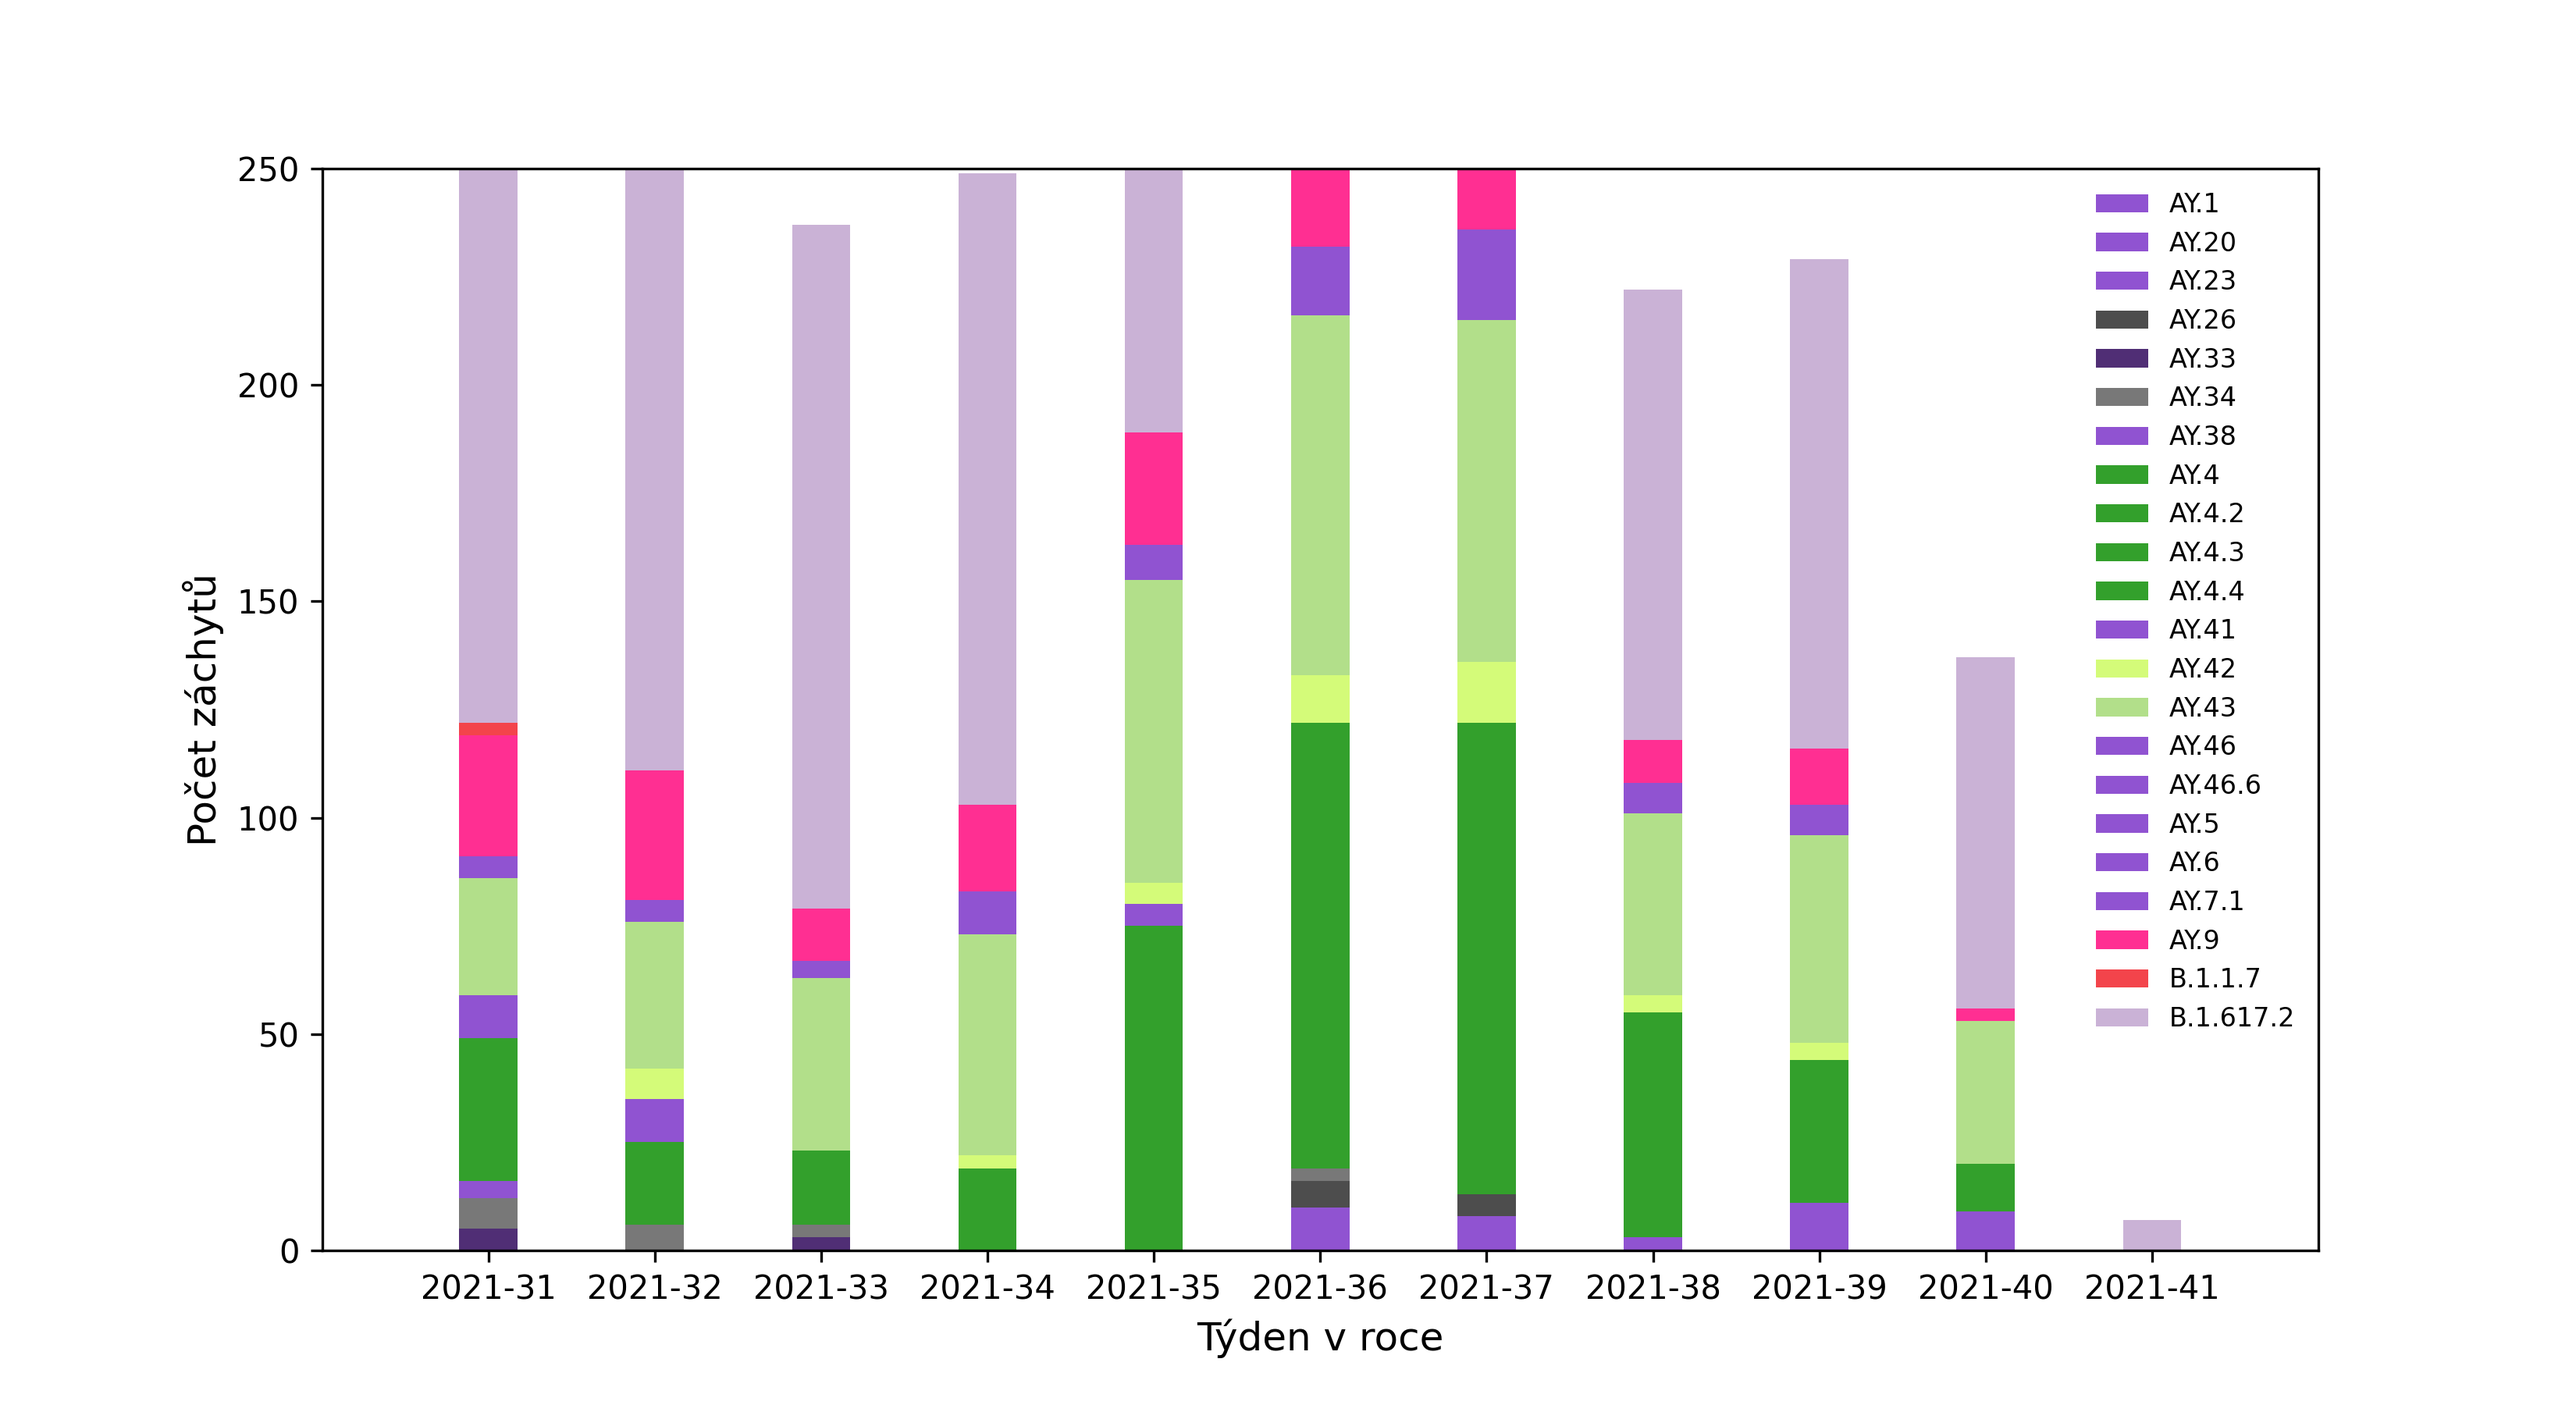
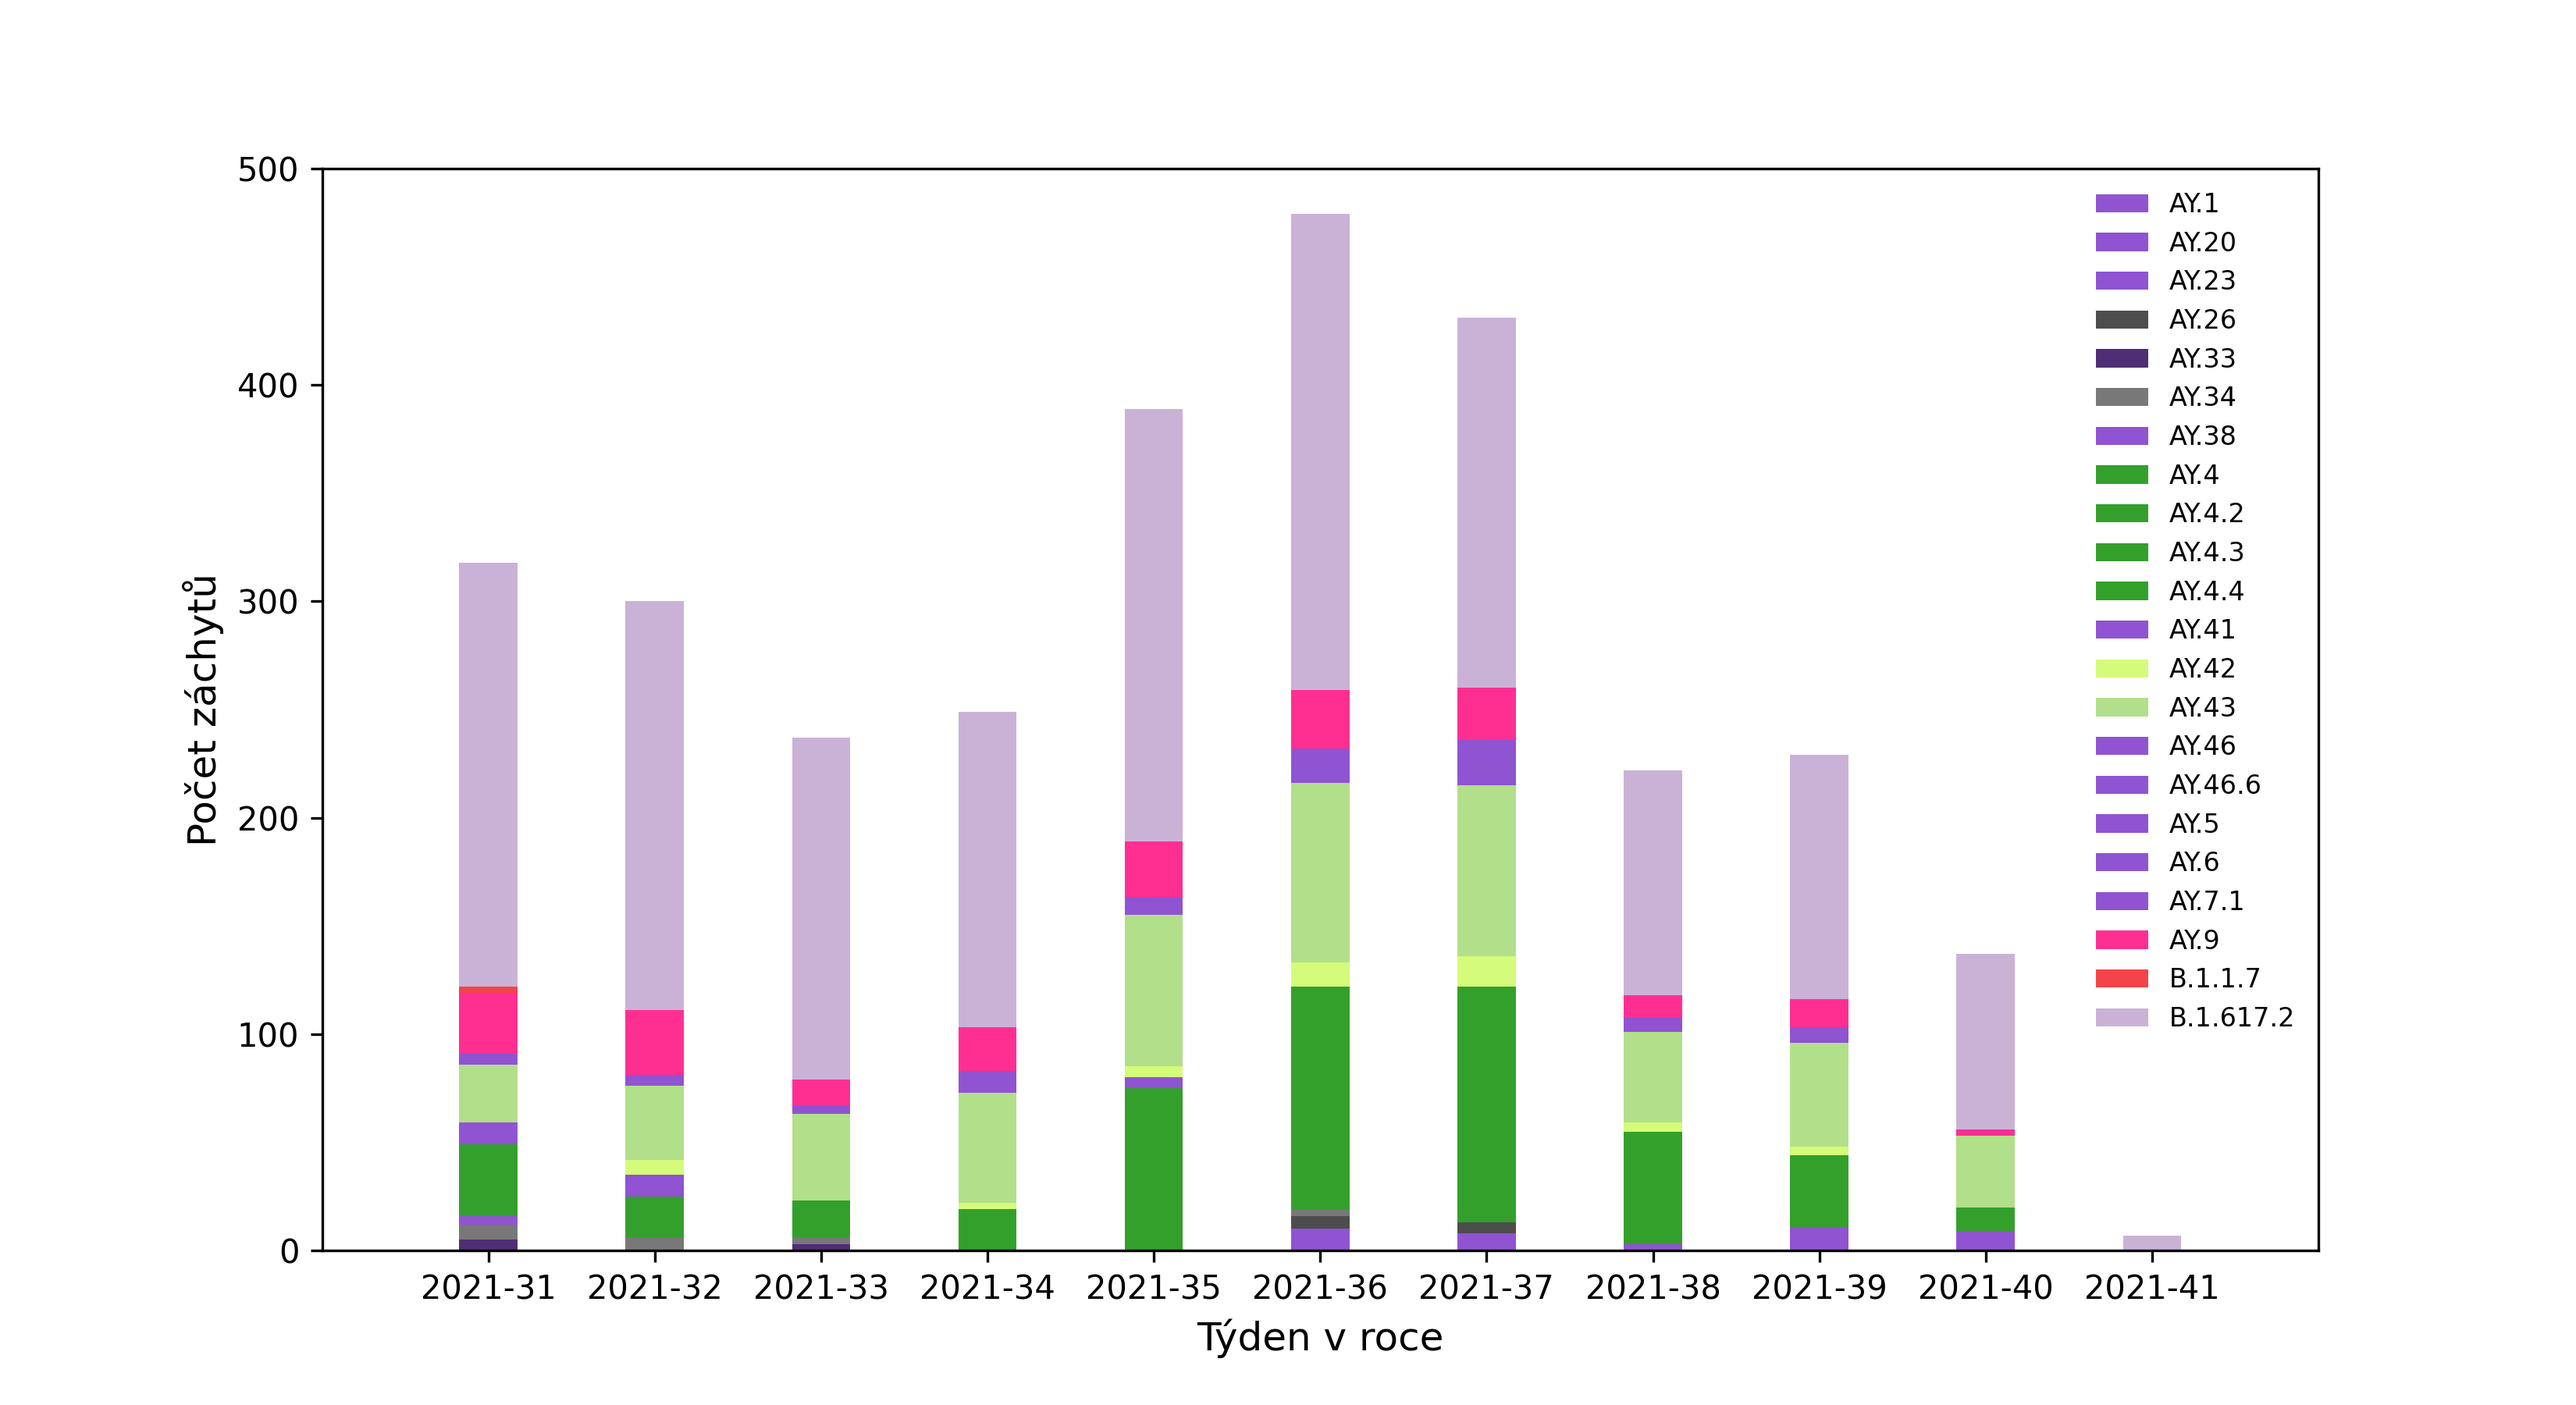
week 42 v1.3

diff --git a/input/hmedova/shrnuti.html b/input/hmedova/shrnuti.html
@@ -11,22 +11,22 @@
     <span style="display:block; height: 15px;"></span>
     
     Ve dvanácti týdnech předcházejících datové uzávěrce zprávy <nobr>({{STARTING_WEEK}}. - {{WEEK}}. týden)</nobr> bylo v&nbsp;dostatečné kvalitě osekvenováno
-    {{ACTUAL_SAMPLE_SIZE}} vzorků, což je {{SEQUENCED_RATIO}}&nbsp;% případů infekce virem <nobr>SARS-CoV-2</nobr> na území&nbsp;ČR zachycených v&nbsp;tomto období. 
+    {{ACTUAL_SAMPLE_SIZE}} vzorků (z toho 3 107 unikátních GISAID ID), což je {{SEQUENCED_RATIO}}&nbsp;% případů infekce virem <nobr>SARS-CoV-2</nobr> na území&nbsp;ČR zachycených v&nbsp;tomto období. 
     Zaznamenáno bylo {{LINEAGE_COUNTS}} linií SARS-CoV-2, 
     z&nbsp;toho tři Varianty hodné pozornosti (VOC) dle stávající klasifikace ECDC.  
 
-    Nejčastěji se vyskytovala Varianta hodná pozornosti Delta <nobr>(B.1.167.2)</nobr> a její subvarianty <nobr>AY.4</nobr>, <nobr>AY.9</nobr>. Nově se vyskytuje varianta <nobr>AY.26</nobr> a <nobr>AY.34</nobr>.
+    Nejčastěji se vyskytovala Varianta hodná pozornosti Delta <nobr>(B.1.167.2)</nobr> a její subvarianty <nobr>AY.43</nobr>, <nobr>AY.4</nobr>, <nobr>AY.9</nobr>, <nobr>AY.42</nobr> a <nobr>AY.5</nobr>. Nově se vyskytuje varianta <nobr>AY.26</nobr> a <nobr>AY.34</nobr>.
     Varianta Beta (<nobr>B.1.351</nobr>) a varianta sledovaná (VUM) <nobr>AZ.2</nobr> se už prakticky nevyskytují, stejně jako deeskalovaná varianta Alpha (<nobr>B.1.1.7</nobr>).
 
     Varianty jsou členěny dle PANGO klasifikace <a href="https://cov-lineages.org/"><nobr>https://cov-lineages.org/</nobr></a>, 
     jejich podrobný popis je uveden v Příloze totoho dokumentu a na webových stránkách <a href="http://virus.img.cas.cz/"><nobr>http://virus.img.cas.cz/</nobr></a>. 
     Od srpna tohoto roku dochází ke změně v klasifikačním systému PANGO u linií původně přiřazených do linie Delta. 
-    Nově vznikly podvarianty označené jako AY.*, které mají mezi sebou nepatrné rozdíly. 
-    Díky probíhajícím změnám v klasifikaci nebyly některé sekvence přiřazeny do PANGO variant a jsou označeny jako "None".
+    Nově byly definovány podvarianty označené jako AY.*, v současné době mají mezi sebou pouze nepatrné rozdíly. Postupně jsou pojmenovávány další AY.*, v současné době je těchto podvariant více než 150. I proto pozorujeme výrazné změny v zastoupení podvariant AY.* mezi posledními Zprávami. Díky probíhajícím změnám v klasifikaci nemusí být některé sekvence přiřazeny do PANGO variant a jsou označeny jako “None”.
 
     <span style="display:block; height: 15px;"></span>
     
-    Od 25. týdne tohoto roku se v České republice objevovala unikátní podvarianta varianty Delta, označená jako AY.9.X. Byla charakterizována mutacemi specifickými pro variantu Delta AY.9 včetně S:A222V a dále pak specifickými mutacemi S:D253A a S:D979E. Vrcholu dosáhla kolem 31. týdne, poslední týdny se tato varianta vytrácí. U vzorků náležících k variantám Delta není v některých případech z technických důvodů zjištěna přítomnost mutace S:G142D, u vzorků náležící variantě AY.4 není z technických důvodů často identifikována mutace S:T95I, která se často vyskytuje u variant lépe unikajícím imunitnímu systému, např. u Iota <nobr>(B.1.526)</nobr>, Mu <nobr>(B.1.621)</nobr> či <nobr>B.1.1.318</nobr>. Případná inkonzistence ve výskytu/absenci těchto mutací, zvláště u S:G142D, se dá vysvětlit chybou amplifikace virové RNA.
+    U vzorků náležících k variantám Delta není v některých případech z technických důvodů zjištěna přítomnost mutace S:G142D, u vzorků náležící variantě AY.4 není z technických důvodů často identifikována mutace S:T95I, která se často vyskytuje u variant lépe unikajícím imunitnímu systému, např. u Iota <nobr>(B.1.526)</nobr>, Mu <nobr>(B.1.621)</nobr> či <nobr>B.1.1.318</nobr>. Případná inkonzistence ve výskytu/absenci těchto mutací, zvláště u S:G142D, se dá vysvětlit chybou amplifikace virové RNA. K zmírnění tohoto problému jsme přešli na alternativní přístup přiřazování variant metodou UShER (Turakhia et al., Nature Genetics 2021, 53:809-16).
+
 
     <span style="display:block; height: 15px;"></span>
     Výběr vzorků pro sekvenaci izolátů SARS-CoV-2 populace České republiky probíhal dle kritérii definice významného vzorku stanovených ÚZIS. 

diff --git a/input/hmedova/AY_CZ.html b/input/hmedova/AY_CZ.html
@@ -14,7 +14,7 @@
     
     Následující graf znázorňuje časový průběh výskytu tří mutací od <nobr>{{STARTING_WEEK}}.</nobr> do <nobr>{{WEEK}}. týdne</nobr> tohoto roku,
     doplněný celkovým množstvím osekvenovaných vzorků v daném týdnu.
-    Mutace A22V, D253A a D979E se vyskytují téměř vždy zároveň, mutace T95I nesleduje tento průběh. I přes pokles ve vzorcích, stále představuje 3. nejčastěji osekvenovanou variantu, jejíž frekvence se pohybuje okolo 10%. 
+    Mutace A222V, D253A a D979E se vyskytují téměř vždy zároveň, mutace T95I nesleduje tento průběh. I přes pokles ve vzorcích, stále představuje 3. nejčastěji osekvenovanou variantu, jejíž frekvence se pohybuje okolo 10%. 
     Varianta AY.9.x dominovala v České republice v&nbsp;týdnech mezi <nobr>28.7. - 11.8. 2021</nobr> a nyní je na ústupu, proto se v současnosti neuvažuje o její kodifikaci jako nové PANGO linie AY.9.x. 
     
     <span style="display:block; height: 25px;"></span>
@@ -30,7 +30,7 @@
     <div class="figure" style="break-before: avoid;">
         <img src="{{obrazek(template, 'cumulative_prevalence.png')}}">
         <div class="legenda">
-            <i>Celosvětový přehled výskytu mutací A222V, D253A a D979E. Převzato ze&nbsp;<a href="https://outbreak.info/situation-reports?pango&muts=S%3AA222V&loc=CZE&selected=Worldwide&overlay=false">outbreak.info</a>.</i>
+            <i>Celosvětový přehled výskytu mutací A222V, D253A a D979E. Převzato ze&nbsp;<a href=" https://outbreak.info/situation-reports?pango&muts=S%3AA222V&muts=S%3AD253A&muts=S%3AD979E&loc=CZE&overlay=false&selected=Worldwide</a>.</i>
         </div>
     </div>   
 

diff --git a/input/kolarmi/AAmutations-regions.html b/input/kolarmi/AAmutations-regions.html
@@ -15,10 +15,6 @@
     <br>Výchozí data jsou uvedena v&nbsp;Tabulce&nbsp;5.<br>
     
     <span style="display:block; height: 35px;"></span>
-
-    Od 25. týdne tohoto roku se v České republice objevovala unikátní podvarianta varianty Delta, označená jako <nobr>AY.9.X</nobr>. Byla charakterizována mutacemi specifickými pro variantu Delta <nobr>AY.9</nobr> včetně S:A222V a dále pak specifickými mutacemi S:D253A a S:D979E. Vrcholu dosáhla kolem 31. týdne, poslední týdny se tato varianta vytrácí. U vzorků náležících k variantám Delta není v některých případech z technických důvodů zjištěna přítomnost mutace S:G142D, u vzorků náležící variantě AY.4 není z technických důvodů často identifikována mutace S:T95I, která se často vyskytuje u&nbsp;variant lépe unikajícím imunitnímu systému, např. u Iota <nobr>(B.1.526)</nobr>, Mu <nobr>(B.1.621)</nobr> či <nobr>B.1.1.318</nobr>. Případná inkonzistence ve výskytu/absenci těchto mutací, zvláště u S:G142D, se dá vysvětlit chybou amplifikace virové RNA.  
-    
-    
     
 </div>
 

diff --git a/input/kolarmi/AAmutations-time.html b/input/kolarmi/AAmutations-time.html
@@ -20,9 +20,6 @@
 
     <span style="display:block; height: 35px;"></span>
     
-        Od 25. týdne tohoto roku se v České republice objevovala unikátní podvarianta varianty Delta, označená jako <nobr>AY.9.X</nobr>. Byla charakterizována mutacemi specifickými pro variantu Delta <nobr>AY.9</nobr> včetně S:A222V a dále pak specifickými mutacemi S:D253A a S:D979E. Vrcholu dosáhla kolem 31. týdne, poslední týdny se tato varianta vytrácí. U vzorků náležících k variantám Delta není v některých případech z technických důvodů zjištěna přítomnost mutace S:G142D, u vzorků náležící variantě AY.4 není z technických důvodů často identifikována mutace S:T95I, která se často vyskytuje u&nbsp;variant lépe unikajícím imunitnímu systému, např. u Iota <nobr>(B.1.526)</nobr>, Mu <nobr>(B.1.621)</nobr> či <nobr>B.1.1.318</nobr>. Případná inkonzistence ve výskytu/absenci těchto mutací, zvláště u S:G142D, se dá vysvětlit chybou amplifikace virové RNA.  
-
-    
 </div>
 
 <span style="display:block; height: 25px;"></span>

diff --git a/input/cechova/sampling.html b/input/cechova/sampling.html
@@ -1,8 +1,8 @@
 <div>
     Sekvenace izolátů SARS-CoV-2 z&nbspúzemí České republiky probíhá v&nbspněkolika akademických, univerzitních a soukromých laboratořích.     
     
-    Do sekvenační kampaně se ve&nbsp;dvanácti týdnech předcházejících datové uzávěrce {{DF_DATE}} zapojilo 10 pracovišť  
-    z&nbsp;laboratoří veřejného zdravotnictví, veterinárního sektoru, z&nbsp;evropských spolupracujících sekvenačních center v&nbsp;rámci ECDC NGS podpory a z&nbsp;Česko-saské přeshraniční spolupráce.
+    Do sekvenační kampaně se ve&nbsp;dvanácti týdnech předcházejících datové uzávěrce {{DF_DATE}} zapojilo 11 pracovišť  
+    z&nbsp;laboratoří veřejného zdravotnictví, soukromého, akademického a veterinárního sektoru, z&nbsp;evropských spolupracujících sekvenačních center v&nbsp;rámci ECDC NGS podpory a z&nbsp;Česko-saské přeshraniční spolupráce.
 
     Ke dni zpracování této zprávy byly k dispozici údaje o&nbsp;sekvenaci {{ACTUAL_SAMPLE_SIZE}} vzorků.   
 

diff --git a/input/mtomkova/popis-variant.html b/input/mtomkova/popis-variant.html
@@ -16,8 +16,7 @@
     
     Varianta hodná zájmu (VOI) je varianta, kde na základě mutací můžeme předpokáládat změnu vazby viru na buňku, 
     imunitní únik nebo sníženou účinnost léčby. 
-    Aktuální Varianty hodné zájmu (<a href="https://www.ecdc.europa.eu/en/covid-19/variants-concern">dle ECDC klasifikace</a>) jsou 
-    <nobr>B.1.620</nobr>, Mu (<nobr>B.1.621</nobr>) a Lambda (<nobr>C.37</nobr>).
+    Aktuální Varianty hodné zájmu (<a href="https://www.ecdc.europa.eu/en/covid-19/variants-concern">dle ECDC klasifikace</a>) jsou Mu (<nobr>B.1.621</nobr>) a Lambda (<nobr>C.37</nobr>).
 
     <span style="display:block; height: 15px;"></span> 
     
